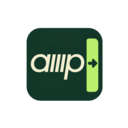
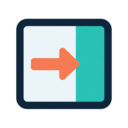
Replace Amp-derived branding with original sidebar artwork
Use an original navy window, turquoise right sidebar, and coral arrow for all extension icons and the store promo tile. Remove obsolete modified-logo attribution and release permission gate.

Amp-Thread-ID: T-01a16ae8-3a44-74ee-bea9-3819e9d61f87

diff --git a/README.md b/README.md
@@ -141,8 +141,7 @@ Live, privacy-redacted 1280 × 800 captures are included. Finish the publisher
 account requirements and privacy certifications in the Web Store dashboard.
 Do not substitute the supplemental fixture images for real app screenshots.
 
-The icon adapts [Amp's public wordmark](https://ampcode.com/app-icon.png?v=4)
-with a lime right-sidebar and arrow. `store/icon-master.png` is the raster master
-for the four runtime icons and promotional tile. The Amp name and wordmark
-remain their owner's property. Confirm permission to use the modified mark
-before store submission; the code's MIT license grants no trademark rights.
+The original icon shows a navy window frame, turquoise right sidebar, and coral
+right-pointing arrow. It uses no Amp logo or wordmark. `store/icon-master.png`
+is the raster master for the four runtime icons and promotional tile.
+The Amp name identifies the compatible service and remains its owner's property.

diff --git a/store/RELEASE.md b/store/RELEASE.md
@@ -22,8 +22,8 @@
       checks do not prove every Chrome/Amp layout combination. In particular,
       live Changes and Portal remain unchecked; Changes was disabled by Amp in
       the available release threads. Both are covered by fixture checks.
-- [ ] Confirm permission to use the modified Amp name/wordmark artwork in the
-      extension and store listing. Independent attribution is not permission.
+- [x] Use original sidebar-and-arrow artwork for the extension icon and promo
+      tile, without an Amp logo or wordmark.
 - [ ] Confirm the publisher's Chrome Web Store developer account, registration,
       required identity/contact verification, and 2-step verification are ready.
 - [ ] Read and accept the developer agreement and privacy certifications yourself.

diff --git a/store/listing.md b/store/listing.md
@@ -75,8 +75,8 @@ review and certify Google's data-use declarations before submission.
 
 - Extension icon: `icons/icon-128.png`, transparent 128 × 128 PNG.
 - Small promotional tile: `store/promo-small.png`, opaque 440 × 280 PNG.
-  This is modified logo artwork, not an app screenshot. Confirm rights to use
-  the Amp mark before submitting either branding asset.
+  Both use original window/sidebar/arrow artwork, without an Amp logo or
+  wordmark. The promotional tile is artwork, not an app screenshot.
 - Live screenshots: `store/screenshots/`, 1280 × 800 PNGs from signed-in Helium.
   Conversation content, task/output content, thread titles, and account details
   are hidden for privacy. See `screenshots/README.md` for the suggested five.
